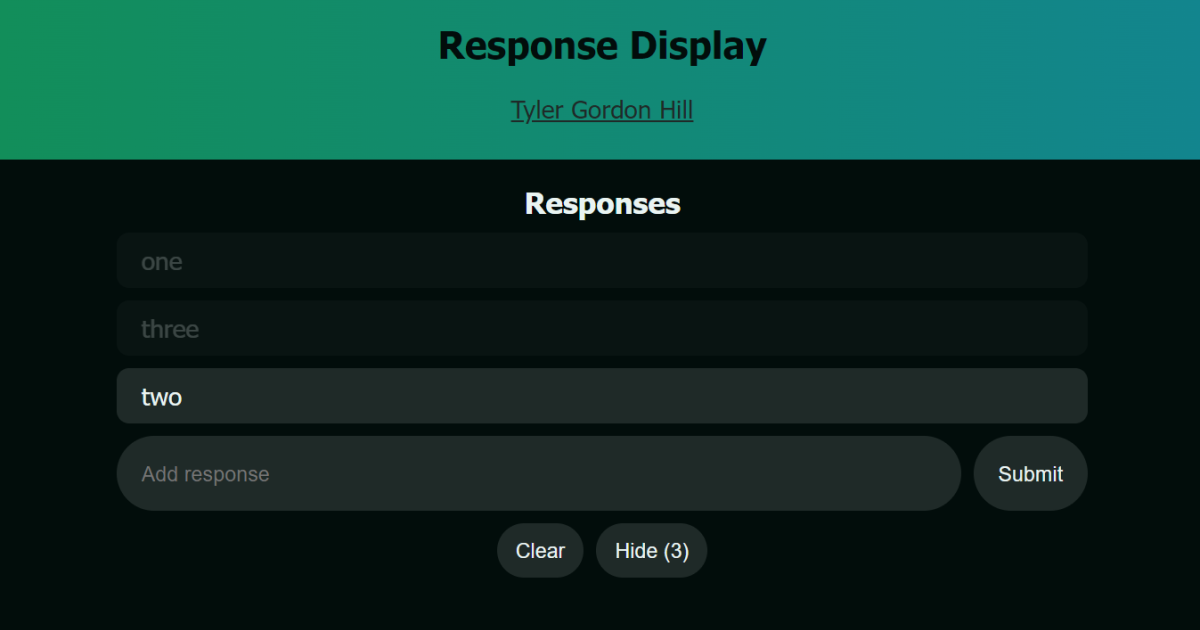
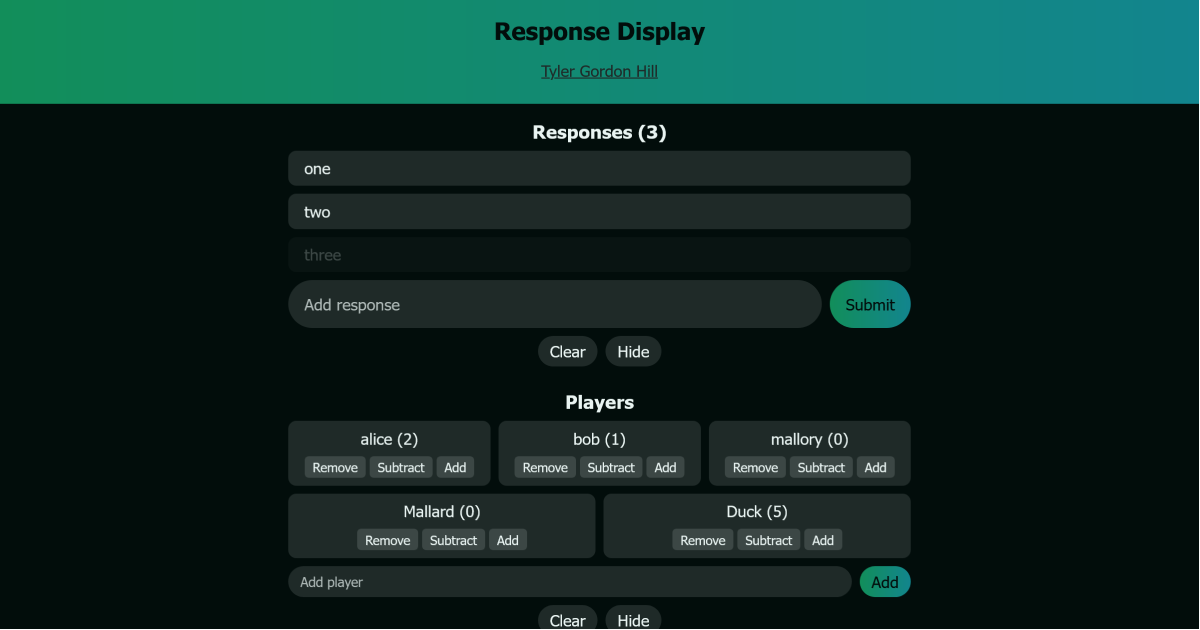
Update link preview

diff --git a/index.html b/index.html
@@ -21,7 +21,7 @@
     <meta property="og:image:type" content="image/png" />
     <meta
       property="og:image:alt"
-      content="Screenshot of the website displaying sample responses with options to submit more, clear, and hide the list. "
+      content="Screenshot of the website displaying sample responses and players."
     />
     <meta property="og:image:width" content="1200" />
     <meta property="og:image:height" content="630" />
